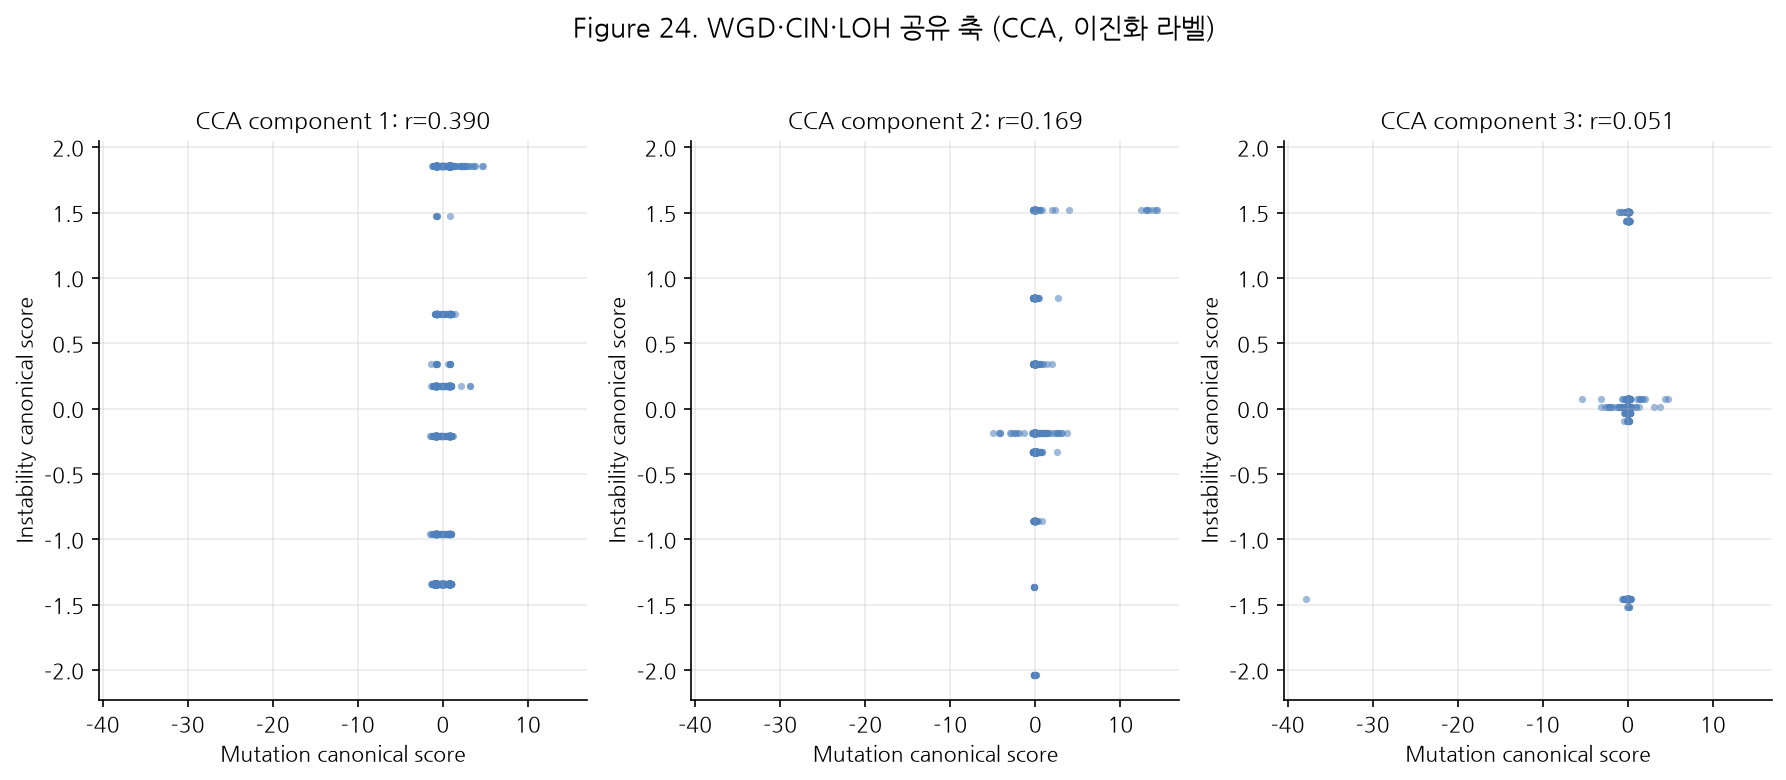
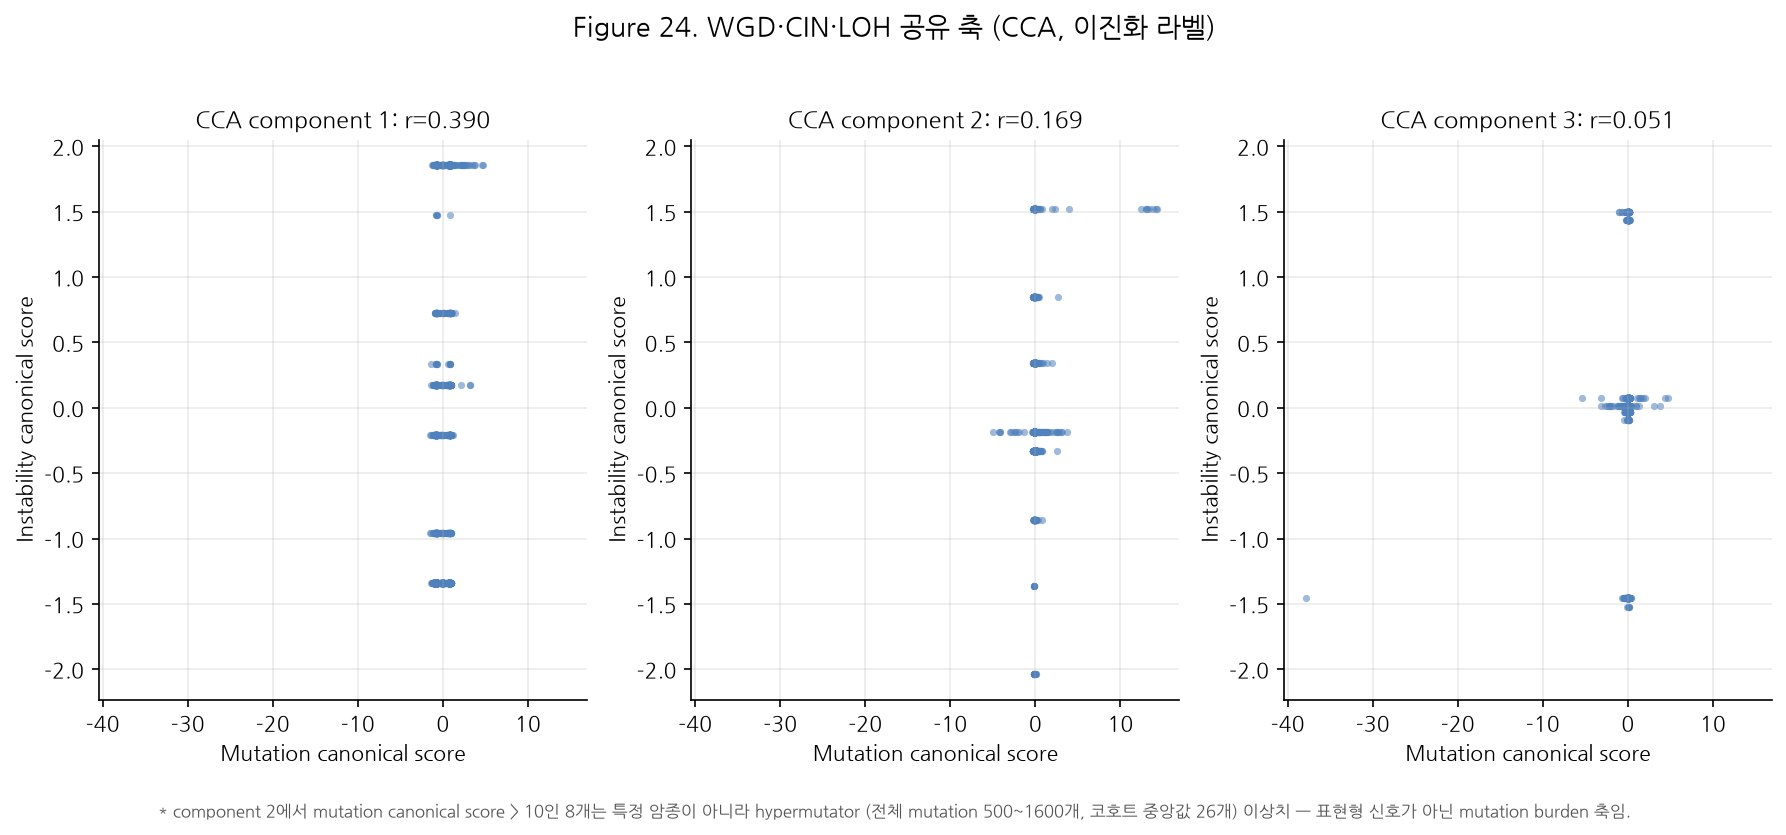
scripts: Fig24 캡션에 component 2 hypermutator 이상치 각주 추가
component 2에서 mutation canonical score > 10인 8개 샘플을 조사한 결과
암종은 Uterus/Bowel/Ovary/Lymphoid로 섞여있고, 공통점은 전체 mutation
개수(500~1600개, 코호트 중앙값 26개)뿐 — 표현형 신호가 아닌 hypermutation
burden 축임을 확인해 각주로 남김.

diff --git a/scripts/47_plot_mutation_cca.py b/scripts/47_plot_mutation_cca.py
@@ -66,6 +66,10 @@ def main() -> int:
                xlabel="Mutation canonical score", ylabel="Instability canonical score",
                xlim=x_limits, ylim=y_limits)
     fig.suptitle("Figure 24. WGD·CIN·LOH 공유 축 (CCA, 이진화 라벨)", y=1.03, fontsize=13)
+    fig.text(0.5, -0.04,
+             "* component 2에서 mutation canonical score > 10인 8개는 특정 암종이 아니라 hypermutator "
+             "(전체 mutation 500~1600개, 코호트 중앙값 26개) 이상치 — 표현형 신호가 아닌 mutation burden 축임.",
+             ha="center", fontsize=8, color="#555")
     fig.tight_layout()
     path1 = save(fig, "fig24_mutation_cca.png")
 
